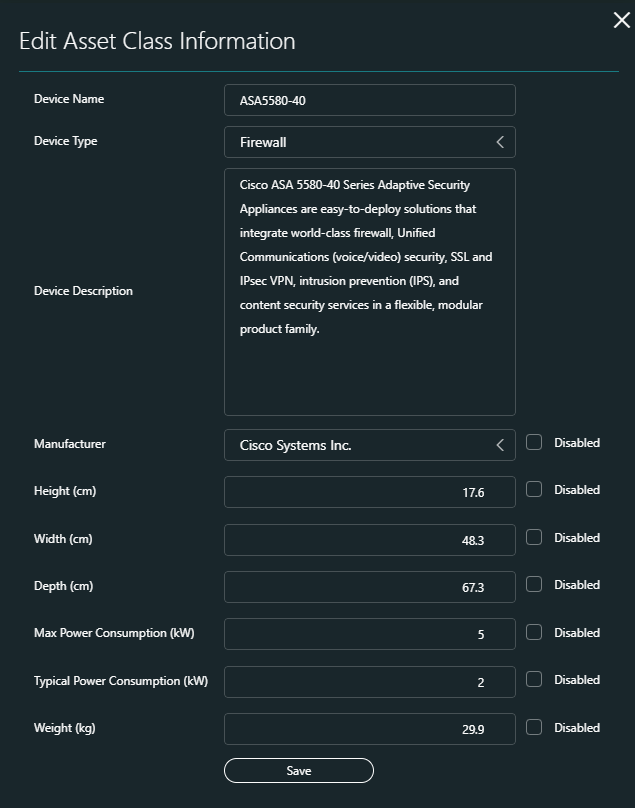
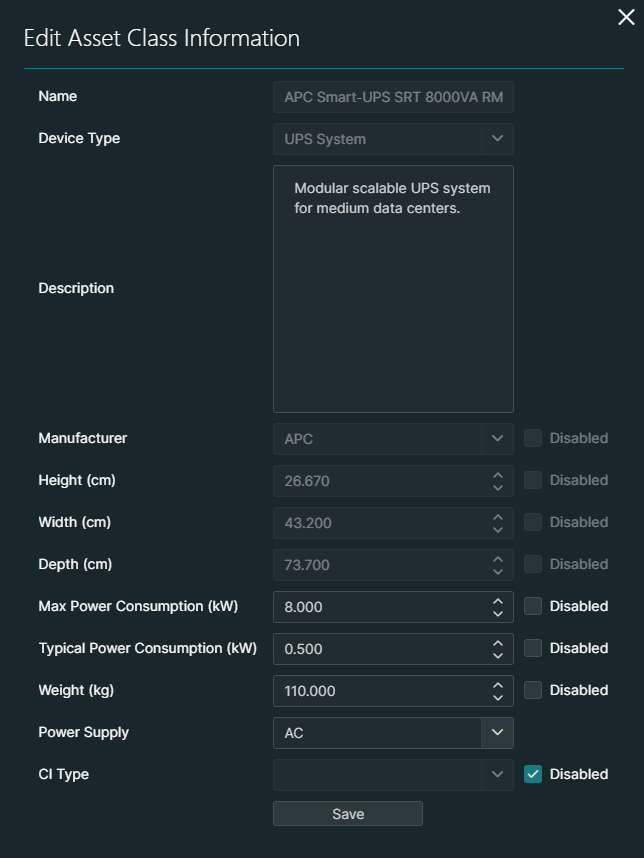
Asset Manager update (WIP)

diff --git a/solutions/standard_solutions/InfraOps/Asset_Manager/Asset_Designer/Asset_Designer.md b/solutions/standard_solutions/InfraOps/Asset_Manager/Asset_Designer/Asset_Designer.md
@@ -11,9 +11,9 @@ This page also allows you to configure [device types](xref:AM_Configuring_device
 
 ## Importing asset classes
 
-To start importing asset classes, click *Import/Export Asset Classes* in the upper-right corner. You can then choose between the following options:.
+To start importing asset classes, click *Asset Class Import/Export* in the upper-right corner. You can then choose between the following options:.
 
-- **Import Netbox Asset Classes**: Allows you to import assets from Netbox using the following GitHub repositories:
+- **From Netbox**: Allows you to import assets from Netbox using the following GitHub repositories:
 
   - [devicetype-library](https://github.com/netbox-community/devicetype-library/tree/master/device-types).
 
@@ -21,7 +21,12 @@ To start importing asset classes, click *Import/Export Asset Classes* in the upp
 
   To do so, you will first have to select up to 60 files from the repositories, then click *Selected files*, and then click *Import*.
 
-- **Import/export Asset Classes to/from CSV**: Allows you to select whether to import or export the asset classes. To import them, keep the *Import* option selected, select and upload your CSV file, and click *Import*.
+- **From/to File**: Allows you to either import or export the asset classes. To import them:
+
+  1. keep the *Import* option selected
+  1. Either keep format set to *Default* to upload assets from an Excel file, or select *Json* for a JSON-based import.
+  1. Click *Choose file*, browse to the file you want to import, and then click *Upload*.
+  1. Click *Import*.
 
 ## Manually creating an asset class
 
@@ -43,7 +48,7 @@ To start importing asset classes, click *Import/Export Asset Classes* in the upp
 
 When you have added an asset class, you can fine-tune it by clicking the details button (ⓘ) for the asset class in the table. This will open the *Asset class details* pane:
 
-![Asset class details](~/solutions/images/Asset_Manager_Chassis_Asset_Class_Details.png)
+![Asset class details pane](~/solutions/images/Asset_Manager_Chassis_Asset_Class_Details.png)
 
 In this pane, you can configure the following details:
 
@@ -58,6 +63,10 @@ In this pane, you can configure the following details:
   - The **max power consumption**, which will determine how much power (in percent) an asset assigned to the rack will consume compared to the available power consumption assigned to the rack.
   - The **typical power consumption**. This optional information is only meant to inform the user and does not affect the asset assignment.
   - The **weight**.
+  - The type of **power supply**.
+  - The **CI Type**, in case IDP provisioning is used (see [Running a network discovery for an asset class](#running-a-network-discovery-for-an-asset-class)).
+
+  For optional fields that do not need to be configured for your setup, you can select the *Disabled* checkbox.
 
   ![Asset class information wizard](~/solutions/images/Asset_Manager_Asset_Class_Information_Wizard.png)
 
@@ -123,3 +132,30 @@ When an asset class has been imported or created, it will first be set to the Dr
 To activate an asset class, click the state cell in the table and select *Set to Active*:
 
 ![Asset class state context menu](~/solutions/images/Asset_Manager_Asset_Class_State_Context_Menu.png)
+
+## Running a network discovery for an asset class
+
+If an asset class has a CI type defined in the asset class information, you can run a network discovery for that class from the asset class details pane:
+
+1. Click the *Network Discovery* button in the upper-right corner of the asset class details pane.
+
+   ![Asset class details pane, with the Network Discovery button in the upper-right corner highlighted](~/solutions/images/InfraOps_Network_Discovery_button.png)
+
+   This will open a window listing the existing assets that have already been discovered, if any.
+
+1. Click *Discover IP Range*.
+
+1. Specify the start and end IP address of the range and click *Scan Range*.
+
+1. Back in the main Network Discovery window, click the + button and select an IP address in the *Discovered IPs* dropdown box.
+
+   If no IP addresses are listed in the dropdown box, nothing was found during the scan. In that case, adjust the scan range and try again.
+
+1. Repeat the step above for each discovered asset you want to add.
+
+<!-- To be continued -->
+
+> [!NOTE]
+> This feature requires [DataMiner IDP](xref:SolIDP). If this is not installed, you will not be able to run a network discovery.
+
+<!-- todo: Verify Compliance feature -->

diff --git a/solutions/standard_solutions/InfraOps/IO_Installation.md b/solutions/standard_solutions/InfraOps/IO_Installation.md
@@ -13,6 +13,7 @@ To install InfraOps:
    - The [GQI DxM](xref:GQI_DxM) is installed.
    - [MediaOps Plan](xref:MediaOps.Plan) 1.1.3-CU0 or higher is installed.
    - [Web File Manager](https://catalog.dataminer.services/details/330649ca-c685-4e1c-a9a5-aeca6ca8b40f) is installed.
+   - Optionally, in case you want to use the network discovery feature, [DataMiner IDP](xref:SolIDP) should also be installed.
 
 1. Look up the [InfraOps package](https://catalog.dataminer.services/details/5a1edac2-45aa-4498-8ab7-ee322d07da27) in the DataMiner Catalog.
 